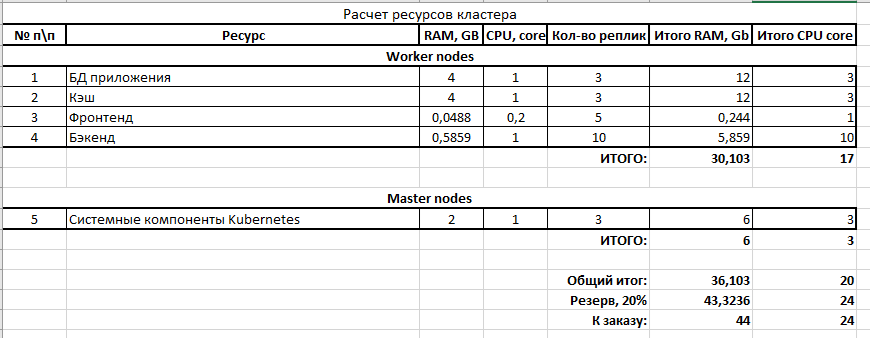
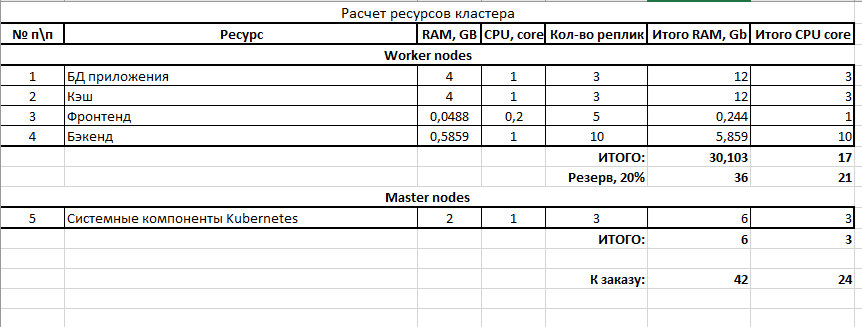
upd

diff --git a/README.md b/README.md
@@ -24,4 +24,4 @@
 >При расчете системных компонентов Kubernetes принимались в расчет 2 ГБ памяти и 1 ядро CPU на мастер-узел.
 >Рекомендуется зарезервировать дополнительные ресурсы для обеспечения отказоустойчивости и масштабируемости. Обычно это 10-20% от общего объема ресурсов. В данном расчете принято 20%
 
->Таким образом необходимо 3 мастер-ноды с 1 vCPU + 2GB RAM каждая и 3 worker-ноды с 7 vCPU + 13GB RAM каждая
+>Таким образом необходимо 3 мастер-ноды с 1 vCPU + 2GB RAM каждая и 3 worker-ноды с 7 vCPU + 12GB RAM каждая
